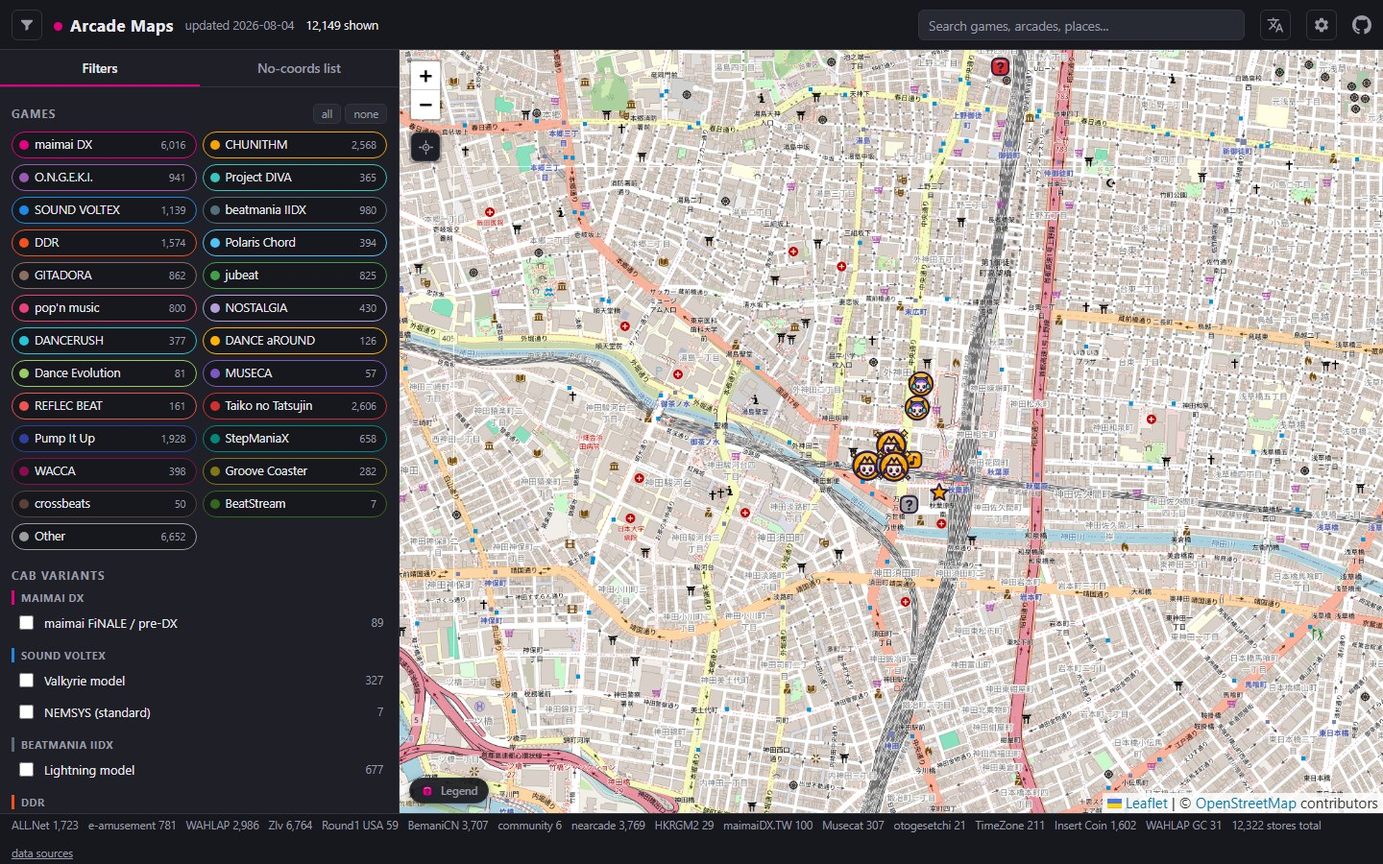
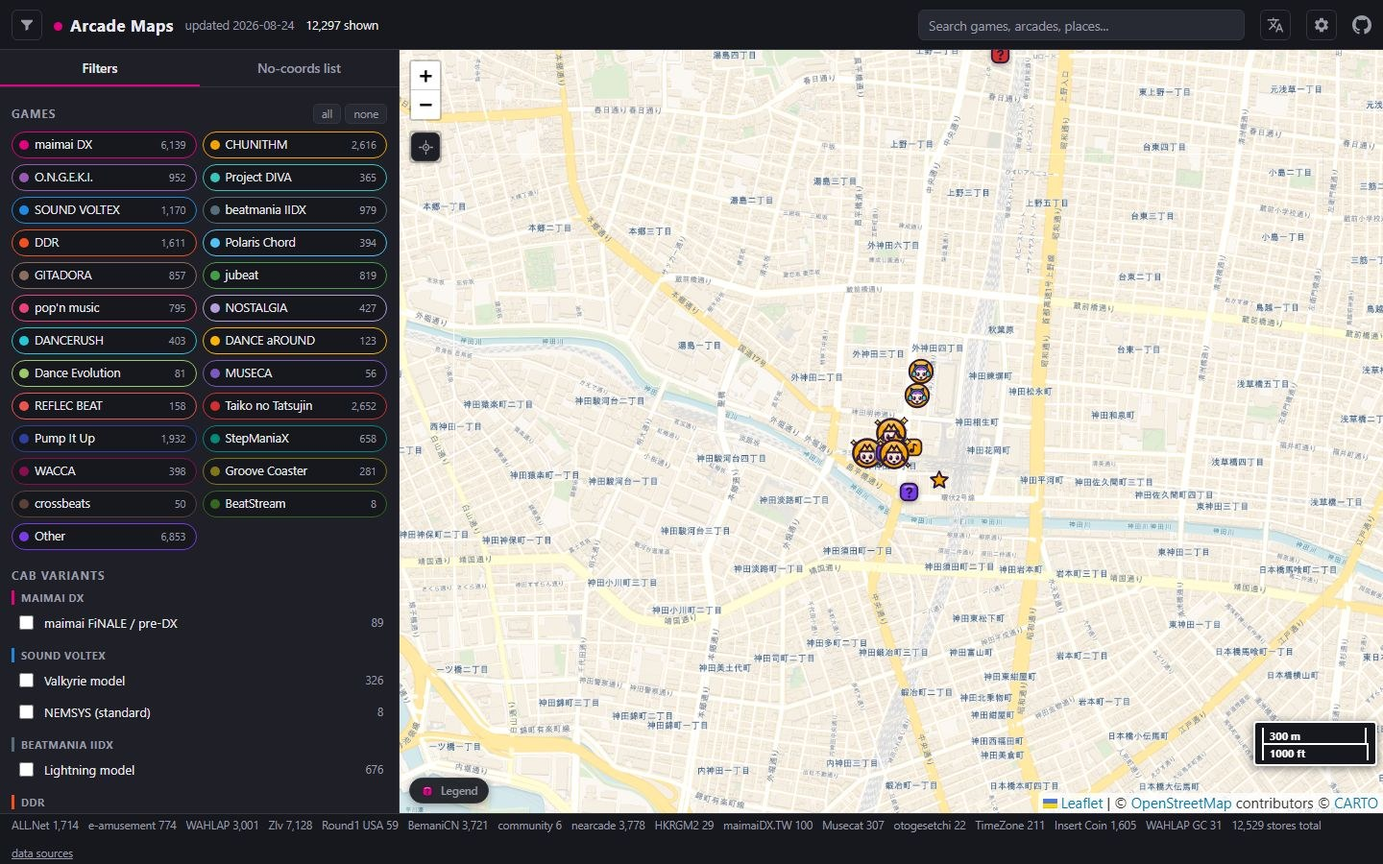
Make the scale bar visible and refresh README shots
Attribution was painting over the Leaflet scale at bottom-right. Stack that corner with flex so the km/mi chip sits above the credit line, with a high-contrast dark border. README screenshots and copy now show CARTO Voyager, violet Other, the scale bar, and the 2026-08-24 dataset.

diff --git a/style.css b/style.css
@@ -1481,23 +1481,49 @@ a.pl-hero-credit:hover { color: #fff; text-decoration: underline; }
 .leaflet-bottom.leaflet-left { pointer-events: none; }
 .leaflet-bottom.leaflet-left .leaflet-control { pointer-events: auto; }
 
-/* Scale bar: sit above the OSM/CARTO attribution, dark chip so it
-   reads on Voyager beige the same way the legend does. */
-.leaflet-control-scale {
-  margin-bottom: 8px;
-  background: none;
-  box-shadow: none;
-  border: none;
+/* Bottom-right: scale ABOVE the OSM/CARTO attribution.
+   Leaflet floats both into one corner; attribution uses margin:0 and
+   paints over the scale (same z-index, later in the DOM). Flex column
+   sizes the corner to its children and pins that stack to bottom:0,
+   so the scale is inside the map instead of clipped below it.
+   .leaflet-bottom .leaflet-control-scale {margin-bottom:5px} in
+   leaflet.css is (0,2,0); a single-class rule cannot override it. */
+.leaflet-bottom.leaflet-right {
+  display: flex;
+  flex-direction: column;
+  align-items: flex-end;
+}
+.leaflet-bottom.leaflet-right .leaflet-control {
+  float: none;
+  clear: none;
+  margin: 0;
+}
+.leaflet-bottom.leaflet-right .leaflet-control-scale {
+  margin: 0 6px 28px 0;
+  padding: 5px 7px 4px;
+  background: #17181d;
+  border: 2px solid #ffffff;
+  border-radius: 4px;
+  box-shadow: 0 2px 10px rgba(0, 0, 0, 0.55);
+  z-index: 1001;
 }
 .leaflet-control-scale-line {
-  background: rgba(23, 24, 29, 0.88);
-  color: #e8eaed;
-  border: 2px solid rgba(255, 255, 255, 0.45);
+  background: transparent;
+  color: #ffffff;
+  border: 2px solid #ffffff;
   border-top: none;
   font-size: 11px;
+  font-weight: 700;
   line-height: 1.2;
   padding: 2px 6px 1px;
   text-shadow: none;
+  box-sizing: border-box;
+  white-space: nowrap;
+}
+.leaflet-control-scale-line:not(:first-child) {
+  border-top: 2px solid #ffffff;
+  border-bottom: none;
+  margin-top: -2px;
 }
 
 @media (prefers-reduced-motion: reduce) {
@@ -1534,6 +1560,15 @@ a.pl-hero-credit:hover { color: #fff; text-decoration: underline; }
   .sd-row { padding: 12px 6px; }
   .sd-colors { grid-template-columns: 1fr 1fr; }
   .legend-body { width: min(230px, calc(100vw - 40px)); max-height: 44vh; }
+  /* Attribution wraps instead of covering the scale or the legend chip. */
+  .leaflet-bottom.leaflet-right .leaflet-control-scale {
+    margin-bottom: 36px;
+  }
+  .leaflet-container .leaflet-bottom.leaflet-right .leaflet-control-attribution {
+    max-width: min(240px, calc(100vw - 130px));
+    white-space: normal;
+    line-height: 1.35;
+  }
 }
 /* === end settings modal + legend chip === */
 

diff --git a/index.html b/index.html
@@ -34,7 +34,7 @@
 <link rel="stylesheet" href="vendor/leaflet.css?v=a7837102">
 <link rel="stylesheet" href="vendor/MarkerCluster.css?v=614dea0a">
 <link rel="stylesheet" href="vendor/MarkerCluster.Default.css?v=61258232">
-<link rel="stylesheet" href="style.css?v=62d1275c">
+<link rel="stylesheet" href="style.css?v=9a719056">
 </head>
 <body>
 <header id="topbar">
@@ -141,7 +141,7 @@ window.AM_CONFIG = {
 <script src="js/state.js?v=f779bf4c"></script>
 <!-- tier-marker cab totals + price/fx display helpers -->
 <script src="js/format.js?v=124368b7"></script>
-<script src="js/mapcore.js?v=b75d44bd"></script>
+<script src="js/mapcore.js?v=2849f8c9"></script>
 <!-- tier marker artwork, generated from assets/markers/*.svg by
      tools/build_tier_icons.py; markers.js reads it at parse time -->
 <script src="js/tier-icons.js?v=b970f432"></script>

diff --git a/js/mapcore.js b/js/mapcore.js
@@ -112,7 +112,7 @@ window.AM = window.AM || {};
     position: "bottomright",
     metric: true,
     imperial: true,
-    maxWidth: 140
+    maxWidth: 180
   }).addTo(map);
 
   var renderer = L.canvas({ padding: 0.5 });

diff --git a/tools/_capture_readme.py b/tools/_capture_readme.py
@@ -51,7 +51,62 @@ def wait_map(page, timeout_ms=90000):
         }""",
         timeout=timeout_ms,
     )
-    page.wait_for_timeout(1200)
+    page.wait_for_selector(".leaflet-control-scale-line", timeout=timeout_ms)
+    page.wait_for_selector("#game-chips .chip", state="attached", timeout=timeout_ms)
+    page.wait_for_timeout(1800)
+
+
+def open_filters(page):
+    page.evaluate(
+        """() => {
+          document.body.classList.remove('drawer-closed');
+          const t = document.getElementById('drawer-toggle');
+          if (t) t.setAttribute('aria-expanded', 'true');
+          if (window.AM && AM.map && AM.map.map) AM.map.map.invalidateSize();
+        }"""
+    )
+    page.wait_for_timeout(400)
+
+
+def close_filters(page):
+    page.evaluate(
+        """() => {
+          document.body.classList.add('drawer-closed');
+          const t = document.getElementById('drawer-toggle');
+          if (t) t.setAttribute('aria-expanded', 'false');
+          if (window.AM && AM.map && AM.map.map) AM.map.map.invalidateSize();
+        }"""
+    )
+    page.wait_for_timeout(400)
+
+
+def collapse_legend(page):
+    page.evaluate(
+        """() => {
+          const btn = document.getElementById('legend-toggle');
+          if (btn && btn.getAttribute('aria-expanded') === 'true') btn.click();
+        }"""
+    )
+    page.wait_for_timeout(300)
+
+
+def expand_legend(page):
+    page.wait_for_selector("#legend-toggle", timeout=20000)
+    page.evaluate(
+        """() => {
+          const btn = document.getElementById('legend-toggle');
+          if (btn && btn.getAttribute('aria-expanded') !== 'true') btn.click();
+        }"""
+    )
+    page.wait_for_function(
+        """() => {
+          const b = document.getElementById('legend-body');
+          const btn = document.getElementById('legend-toggle');
+          return b && !b.hidden && btn && btn.getAttribute('aria-expanded') === 'true';
+        }""",
+        timeout=10000,
+    )
+    page.wait_for_timeout(500)
 
 
 def open_aki(page):
@@ -73,7 +128,48 @@ def wait_place(page):
         }""",
         timeout=20000,
     )
+    try:
+        page.wait_for_selector("#place img", timeout=8000)
+    except Exception:
+        pass
     page.wait_for_timeout(800)
+
+
+def tile_info(page):
+    return page.evaluate(
+        """() => {
+          const srcs = [...document.querySelectorAll('.leaflet-tile')]
+            .map(i => i.src || '');
+          const carto = srcs.filter(s => /cartocdn|voyager/i.test(s)).length;
+          const osm = srcs.filter(s => /tile\\.openstreetmap\\.org/i.test(s)).length;
+          const attr = (document.querySelector('.leaflet-control-attribution')
+            || {}).innerText || '';
+          const scale = document.querySelector('.leaflet-control-scale');
+          const sr = scale ? scale.getBoundingClientRect() : null;
+          const legend = document.getElementById('legend-toggle');
+          const body = document.getElementById('legend-body');
+          const chips = document.querySelectorAll('#game-chips .chip').length;
+          const other = [...document.querySelectorAll('#game-chips .chip')]
+            .find(c => (c.dataset.g || '') === 'other');
+          return {
+            nTiles: srcs.length,
+            carto,
+            osm,
+            attr,
+            scale: !!scale,
+            scaleText: scale ? (scale.innerText || '').replace(/\\s+/g, ' ').trim() : '',
+            scaleBox: sr ? {x: sr.x, y: sr.y, w: sr.width, h: sr.height} : null,
+            legendOpen: !!(legend && legend.getAttribute('aria-expanded') === 'true'),
+            legendBody: !!(body && !body.hidden),
+            chips,
+            otherColor: other ? getComputedStyle(other).getPropertyValue('--chip')
+              || getComputedStyle(other.querySelector('.dot') || other).backgroundColor
+              : null,
+            shown: (document.getElementById('meta-count') || {}).innerText || '',
+            sample: srcs.slice(0, 3),
+          };
+        }"""
+    )
 
 
 def shot(page, name):
@@ -83,7 +179,8 @@ def shot(page, name):
         from PIL import Image
         im = Image.open(path).convert("RGB")
         im.save(path, "JPEG", quality=88, optimize=True, progressive=True)
-    print("wrote", path, path.stat().st_size)
+    info = tile_info(page)
+    print("wrote", path, path.stat().st_size, info)
 
 
 def main():
@@ -102,14 +199,24 @@ def main():
         page.evaluate("() => { localStorage.clear(); }")
         page.reload(wait_until="domcontentloaded")
         wait_map(page)
+        open_filters(page)
+        wait_map(page)
         shot(page, "screenshot.png")
 
         page.goto(base + "#" + AKI_ZOOM, wait_until="domcontentloaded")
         wait_map(page)
+        open_filters(page)
         shot(page, "readme-akihabara.jpg")
+
+        page.goto(base + "#" + TOKYO, wait_until="domcontentloaded")
+        wait_map(page)
+        open_filters(page)
+        expand_legend(page)
+        shot(page, "readme-legend.jpg")
 
         page.goto(base + "#" + AKI_HASH, wait_until="domcontentloaded")
         wait_map(page)
+        collapse_legend(page)
         open_aki(page)
         wait_place(page)
         shot(page, "readme-place.jpg")
@@ -140,17 +247,13 @@ def main():
         mp.evaluate("() => localStorage.clear()")
         mp.reload(wait_until="domcontentloaded")
         wait_map(mp)
-        # close the filter drawer so the map fills the phone
-        toggle = mp.locator("#drawer-toggle")
-        if toggle.count():
-            expanded = toggle.get_attribute("aria-expanded")
-            if expanded == "true":
-                toggle.click()
-                mp.wait_for_timeout(400)
+        close_filters(mp)
         mp.goto(base + "#" + AKI_HASH, wait_until="domcontentloaded")
         wait_map(mp)
+        close_filters(mp)
         open_aki(mp)
         wait_place(mp)
+        close_filters(mp)
         shot(mp, "readme-mobile-place.jpg")
         browser.close()
     httpd.shutdown()

diff --git a/README.md b/README.md
@@ -7,13 +7,13 @@
 
 Worldwide rhythm game arcade locations on one interactive map. Arcade Maps tracks where you can play CHUNITHM, maimai DX, ONGEKI, SOUND VOLTEX, beatmania IIDX, DanceDanceRevolution, Polaris Chord, GITADORA, jubeat, pop'n music, Nostalgia, DANCERUSH STARDOM, DANCE aROUND, Project DIVA Arcade, Pump It Up, StepManiaX, WACCA, Groove Coaster, crossbeats, BeatStream, and community-tracked games including Taiko no Tatsujin. The data is rebuilt automatically from official operator sources (SEGA ALL.Net, Konami e-amusement, WAHLAP) plus the Zenius-I-Vanisher and BemaniCN community databases, committed to this repo on a weekly schedule, and served as a fast static Leaflet map on GitHub Pages.
 
-**Current dataset (last rebuild 2026-08-04):** 12,322 arcades across 69 countries (191 cross-source duplicates were unified by romanization-aware matching, so a Japanese official listing and its romaji community twin now share one pin; a further 124 where two sources geocoded the same venue more than 120 m apart - ALL.Net's fullwidth "アミューズメントパークＭＧ西条" and e-amusement's "アミューズメントパークMG西条店" were one store drawn as two icons; and 22 in Hong Kong and Macau, where the official English listing and BemaniCN's Chinese one share no characters at all and are bridged by the street number, the operator's Latin branding, or the Cantonese reading of the Chinese name - 碧富遊戲機 on 和宜合道 is PIK FU GAME CENTRE on Wo Yi Hop Road). Sources include SEGA ALL.Net, Konami eagate, WAHLAP China, BemaniCN, Round1 USA, and Zenius-I-Vanisher (65 country queries, plus a United States per-series crawl).
+**Current dataset (last rebuild 2026-08-24):** 12,529 arcades across 69 countries (191 cross-source duplicates were unified by romanization-aware matching, so a Japanese official listing and its romaji community twin now share one pin; a further 124 where two sources geocoded the same venue more than 120 m apart - ALL.Net's fullwidth "アミューズメントパークＭＧ西条" and e-amusement's "アミューズメントパークMG西条店" were one store drawn as two icons; and 22 in Hong Kong and Macau, where the official English listing and BemaniCN's Chinese one share no characters at all and are bridged by the street number, the operator's Latin branding, or the Cantonese reading of the Chinese name - 碧富遊戲機 on 和宜合道 is PIK FU GAME CENTRE on Wo Yi Hop Road). Sources include SEGA ALL.Net, Konami eagate, WAHLAP China, BemaniCN, Round1 USA, and Zenius-I-Vanisher (65 country queries, plus a United States per-series crawl).
 
 ## Live map
 
 **https://jonathanliu1401.github.io/Arcade-Maps/**
 
-World view, 12,149 plottable pins (the rest are address-only and live in the no-coords list):
+World view on the default CARTO Voyager basemap (OpenStreetMap tiles are the automatic fallback if CARTO fails, and a Settings > Display toggle). 12,297 plottable pins of 12,529 stores (the rest are address-only and live in the no-coords list). A metric/imperial scale bar sits above the attribution. Other / unknown-count markers are violet with a halo, not grey, so they stay visible on Voyager beige. Legend shapes tint to the first selected game:
 
 ![Arcade Maps world view with game filters](docs/screenshot.png)
 
@@ -31,27 +31,31 @@ The same store on a phone (bottom sheet) and with the UI in Japanese:
 
 ![Japanese UI for the same store](docs/readme-ja.jpg)
 
+Tokyo with the on-map legend expanded. Marker shapes follow the first selected game's colour; the scale bar is in the corner:
+
+![Expanded marker legend and scale bar over Tokyo](docs/readme-legend.jpg)
+
 ## Features
 
 - One map, every game: per-game layer toggles with marker clustering, so you can show only the cabs you care about
 - One search box for three things: type a game (`iidx`, `舞萌`) to switch that filter on, a store name to fly to it, or a city (`Osaka`, `大阪`) to zoom to its arcades. Japanese, Chinese and romaji all match
 - Store detail panel: click any marker and a full-height panel (a drag-to-expand bottom sheet on phones) opens with the store's games and per-game cab counts, address, source badges, notes, and buttons for directions, share-this-store link, and nearby
 - Nearby search: the locate button (or any store's Nearby button) ranks the closest arcades by great-circle distance with a compass bearing, and honours whatever game, cab and source filters are active
-- Settings you keep: turn individual data sources off, flatten the marker size ramp so every icon draws at 25px (the tier shapes stay), pick CARTO Voyager or OpenStreetMap tiles, and disable location features entirely. Choices persist per device in localStorage and never travel in a shared link. The on-map legend is a click-to-expand chip, not a setting
+- Settings you keep: turn individual data sources off, flatten the marker size ramp so every icon draws at 25px (the tier shapes stay), pick CARTO Voyager or OpenStreetMap tiles (Voyager is the default; OSM is also the automatic fallback), and disable location features entirely. Choices persist per device in localStorage and never travel in a shared link. The on-map legend is a click-to-expand chip (shapes tint to the first selected game), not a setting. A metric/imperial scale bar sits on the map
 - Tiered kawaii markers: each store draws one of six original chibi-style icons by total cabinet count (note, button pad, star, cat-ear chibi at 20-49 cabs, crowned idol at 50+, and a "?" pad when no source publishes a count). Each icon is tinted by the store's game colour, tiers only use counts a source actually reported, and at the deepest zoom a stacked bundle fans out (spiderfies) when you click it, so overlapping stores stay clickable
-- Venue photos in the detail panel: 5,054 of 12,322 arcades (41.0%) now carry a real photo of that venue, shown as a slideshow when there is more than one and credited to the community member who took it. When a store has none, the panel falls back to a CC-licensed photo of one of its cabinets from Wikimedia Commons (with the required author/license credit rendered on the image), then to a game-colour banner. Coverage is uneven by design of the sources, not by choice: about two thirds in China (mirrored BemaniCN thumbnails), about a third in the United Kingdom and the United States, and only 3.3% in Japan. See "Photo coverage" below for why Japan is the outlier
+- Venue photos in the detail panel: 4,995 of 12,529 arcades (39.9%) now carry a real photo of that venue, shown as a slideshow when there is more than one and credited to the community member who took it. When a store has none, the panel falls back to a CC-licensed photo of one of its cabinets from Wikimedia Commons (with the required author/license credit rendered on the image), then to a game-colour banner. Coverage is uneven by design of the sources, not by choice: about two thirds in China (mirrored BemaniCN thumbnails), about a third in the United Kingdom and the United States, and only 3.3% in Japan. See "Photo coverage" below for why Japan is the outlier
 - Resizable sidebar: drag the panel edge to any width (double-click resets), remembered per device
 - Shareable URLs: the hash carries the map view plus selected games and cabs, and the Share button adds the exact store, so a link reopens on what you were looking at
 - Official-source data: SEGA ALL.Net, Konami eagate facility search, and WAHLAP (China) are scraped directly, not copied from other maps
-- Community coverage where official sources stop: Zenius-I-Vanisher fills in worldwide arcades (65 countries queried at the last pull), Taiko, offline cabs for retired games, and the extra series a US per-series crawl reaches. Six of those now have layers of their own rather than sitting in the grey "Other" chip: Pump It Up (1,958 venues), StepManiaX (659), WACCA (403), Groove Coaster (316), crossbeats (50) and BeatStream (8). In The Groove, Guitar Hero Arcade, Beat Saber and StepMania still map to Other
-- Machine counts where sources report them, each labelled with the evidence behind it: `game_counts` covers 4,470 arcades (33.0%; BemaniCN raw coverage is ~94% of its shops), and a parallel `count_evidence` records per game slug whether the number is a published quantity (`bemanicn_qty`), a human writing "12 machines" on the listing (`ziv_comment`), or simply the number of machine rows on a ZIv page (`ziv_listed`, a FLOOR rather than a total). A `ziv_listed` count of 1 renders nothing at all: ZIv lists one row per title regardless of how many cabinets stand behind it, so "x1" would be a number no source published. Cabinet-variant pills follow the same rule one level down through `cab_models`, and only take a quantity when the listing comment NAMES the cabinet model
-- Measured prices, not guessed ones: `scrapers/prices.py` derives a per-country per-game figure from the real quoted prices in the listings and tiers it by how much evidence there is - measured (5 or more quotes), sparse (2 to 4, shown with a caveat), unknown (renders nothing rather than a fabrication). The current table holds 116 measured cells, 113 sparse and 87 unknown across 29 countries. This replaced a hand-written country table that asserted "HKD 8-15/play typical" for Hong Kong, where every listing in the dataset quotes HK$6.00. Weekly USD FX rates come from Frankfurter (ECB) with open.er-api.com gap-fill, so the site can show a local price and a converted estimate
-- Community enrichment: `data/enrichment.json` covers 9,505 of the 12,322 arcades - opening hours (5,972), venue info text (4,113), a website (4,044), free-text machine prices per game (3,647), and venue photos (5,054). The text fields are all ZIv; the photos that reach the shipped file come from ZIv and BemaniCN only. `scrapers/enrich.py` also parses the other BemaniCN fields (transit prose, venue coin/token price, per-title coins per play, game versions, favourite counts), but photos are the only BemaniCN data that has landed in the shipped file so far
+- Community coverage where official sources stop: Zenius-I-Vanisher fills in worldwide arcades (65 countries queried at the last pull), Taiko, offline cabs for retired games, and the extra series a US per-series crawl reaches. Six of those now have layers of their own rather than sitting in the violet "Other" chip: Pump It Up (1,932 venues), StepManiaX (658), WACCA (398), Groove Coaster (308), crossbeats (50) and BeatStream (8). In The Groove, Guitar Hero Arcade, Beat Saber and StepMania still map to Other
+- Machine counts where sources report them, each labelled with the evidence behind it: `game_counts` covers 6,211 arcades (49.6%; BemaniCN raw coverage is ~93% of its shops), and a parallel `count_evidence` records per game slug whether the number is a published quantity (`bemanicn_qty`), a human writing "12 machines" on the listing (`ziv_comment`), or simply the number of machine rows on a ZIv page (`ziv_listed`, a FLOOR rather than a total). A `ziv_listed` count of 1 renders nothing at all: ZIv lists one row per title regardless of how many cabinets stand behind it, so "x1" would be a number no source published. Cabinet-variant pills follow the same rule one level down through `cab_models`, and only take a quantity when the listing comment NAMES the cabinet model
+- Measured prices, not guessed ones: `scrapers/prices.py` derives a per-country per-game figure from the real quoted prices in the listings and tiers it by how much evidence there is - measured (5 or more quotes), sparse (2 to 4, shown with a caveat), unknown (renders nothing rather than a fabrication). The current table holds 113 measured cells, 115 sparse and 86 unknown across 29 countries. This replaced a hand-written country table that asserted "HKD 8-15/play typical" for Hong Kong, where every listing in the dataset quotes HK$6.00. Weekly USD FX rates come from Frankfurter (ECB) with open.er-api.com gap-fill, so the site can show a local price and a converted estimate
+- Community enrichment: `data/enrichment.json` covers 9,832 of the 12,529 arcades - opening hours (6,243), venue info text (4,444), a website (4,038), free-text machine prices per game (3,956), and venue photos (4,995). The text fields are all ZIv; the photos that reach the shipped file come from ZIv and BemaniCN only. `scrapers/enrich.py` also parses the other BemaniCN fields (transit prose, venue coin/token price, per-title coins per play, game versions, favourite counts), but photos are the only BemaniCN data that has landed in the shipped file so far
 - Directions: every store links out to Google Maps, by coordinate when it has one and by name + address search when it does not
 - Street-level China placement, still labelled approximate: coordinate-less mainland China addresses are geocoded through Baidu's keyless public endpoint and the answers are committed to `data/china_geocode.json`, which moved China from 2,090 distinct coordinates to 5,305. Every one of those pins still carries `approx: true`, and the reason is worth reading rather than skipping. See the China accuracy disclosure below
 - Automated freshness: a GitHub Action re-scrapes weekly and commits the diff, so the badge above tells you exactly how stale the data is
 - Google My Maps export: numbered KMZ layers in `mymaps/` let you rebuild the classic My Maps experience in your own Google account (see [docs/MYMAPS.md](docs/MYMAPS.md))
-- No backend, no API keys: static HTML + vendored Leaflet 1.9.4 + Leaflet.markercluster 1.5.3 on GitHub Pages, CARTO Voyager raster tiles with OpenStreetMap as automatic fallback. The one optional exception is the Google Places photo path, which stays a complete no-op unless somebody adds their own key ([docs/GOOGLE_PHOTOS.md](docs/GOOGLE_PHOTOS.md))
+- No backend, no API keys: static HTML + vendored Leaflet 1.9.4 + Leaflet.markercluster 1.5.3 on GitHub Pages, CARTO Voyager raster tiles by default with OpenStreetMap as automatic fallback if CARTO fails (and as a Settings > Display choice). The one optional exception is the Google Places photo path, which stays a complete no-op unless somebody adds their own key ([docs/GOOGLE_PHOTOS.md](docs/GOOGLE_PHOTOS.md))
 
 ## China accuracy disclosure
 
@@ -86,11 +90,11 @@ Refreshing the cache is opt-in and never part of a normal build, because it is h
 
 ## Photo coverage
 
-**5,054 of 12,322 arcades (41.0%) have a real photo of the venue**, from two sources in the shipped file: BemaniCN thumbnails mirrored into `assets/venues/` (3,095 arcades) and ZIv community uploads (1,959). A third source, a small hand-reviewed set from Wikimedia Commons, is harvested into `data_raw/chain_photos.json` (48 image records) but **currently reaches no arcade on the map**: `photos.index_by_source_url()` keys the join on `ziv:<id>` / `bemanicn:<id>` derived from `page_url`, and a `commons.wikimedia.org` page URL produces no key, so `enrich.py` drops every Commons-only photo. Shipped enrichment contains zero of them. The BemaniCN images are mirrored rather than linked because that site serves them from signed URLs that expire within the hour, so a stored link would be dead by the time anybody clicked it. Licence position, per-file attribution and the takedown path are in [`assets/venues/ATTRIBUTION.md`](assets/venues/ATTRIBUTION.md). `scrapers/photo_quality.py` ranks each venue's photos from their file headers (dimensions, aspect, bytes per pixel, and the upload timestamp in the filename) so the best one takes the hero slot instead of whichever came back first.
+**4,995 of 12,529 arcades (39.9%) have a real photo of the venue**, from two sources in the shipped file: BemaniCN thumbnails mirrored into `assets/venues/` (3,065 arcades) and ZIv community uploads (1,930). A third source, a small hand-reviewed set from Wikimedia Commons, is harvested into `data_raw/chain_photos.json` (48 image records) but **currently reaches no arcade on the map**: `photos.index_by_source_url()` keys the join on `ziv:<id>` / `bemanicn:<id>` derived from `page_url`, and a `commons.wikimedia.org` page URL produces no key, so `enrich.py` drops every Commons-only photo. Shipped enrichment contains zero of them. The BemaniCN images are mirrored rather than linked because that site serves them from signed URLs that expire within the hour, so a stored link would be dead by the time anybody clicked it. Licence position, per-file attribution and the takedown path are in [`assets/venues/ATTRIBUTION.md`](assets/venues/ATTRIBUTION.md). `scrapers/photo_quality.py` ranks each venue's photos from their file headers (dimensions, aspect, bytes per pixel, and the upload timestamp in the filename) so the best one takes the hero slot instead of whichever came back first.
 
 Coverage is very uneven, and two of the gaps are worth stating plainly:
 
-- **Japan is 3.3%** (46 of 1,396), the worst of any major market. Japanese chain store pages scrape at 95 to 100 percent technically, and are unusable anyway: Taito and namco explicitly forbid copying, transmitting or deep-linking their images, which is exactly what embedding them on a public map would be. Those chains are therefore link-outs to the official store page, and a link-out counts as zero coverage.
+- **Japan is 3.3%** (46 of 1,375), the worst of any major market. Japanese chain store pages scrape at 95 to 100 percent technically, and are unusable anyway: Taito and namco explicitly forbid copying, transmitting or deep-linking their images, which is exactly what embedding them on a public map would be. Those chains are therefore link-outs to the official store page, and a link-out counts as zero coverage.
 - **Street-level imagery was measured and rejected.** KartaView, Mapillary, Wikimedia Commons geosearch, OSM `image=*` tags and Wikidata P18 were probed against a fixed-seed sample of 210 arcades. Only 5.2% of arcades have any street-level photo with a camera even pointed at them, and of the best-case frames actually downloaded and looked at, 0 of 7 showed an arcade: all were windshield dashcam shots of asphalt, because dashcams photograph roads rather than shops. The full measurement lives in `data_raw/streetlevel_imagery_probe.json` so nobody has to redo it.
 
 **Google Places photos are an optional fourth source**, off by default and a clean no-op without an API key. Place IDs are cached (Google's terms exempt them explicitly); photos are fetched in the browser when a panel opens and are never stored anywhere, because the terms forbid caching those. Setup, costs, and how a match is verified before it is trusted: [docs/GOOGLE_PHOTOS.md](docs/GOOGLE_PHOTOS.md).
@@ -183,8 +187,12 @@ Arcade-Maps/
 |  |- stamp_assets.py    content-hash ?v= stamps on the css/js in index.html
 |- mymaps/               numbered KMZ layers for My Maps import (+ README)
 |- docs/
-|  |- screenshot.png     README world-view capture
-|  |- readme-*.jpg       README UI captures (Akihabara, place panel, mobile, ja)
+|  |- screenshot.png     README world-view capture (CARTO Voyager)
+|  |- readme-akihabara.jpg  Akihabara street zoom, chibi markers
+|  |- readme-place.jpg   GiGO Akihabara 3 store panel
+|  |- readme-mobile-place.jpg  phone bottom sheet
+|  |- readme-ja.jpg      Japanese UI for the same store
+|  |- readme-legend.jpg  expanded legend + scale bar over Tokyo
 |  |- ARCHITECTURE.md    pipeline, data schema, design decisions
 |  |- DATA_SOURCES.md    per-source URLs, parse markers, caveats
 |  |- GOOGLE_PHOTOS.md   optional Google Places photos: setup, cost, match rules
@@ -208,7 +216,7 @@ Prior art studied while designing this project (protocols and recipes, no code c
 - [xiangyuecn/AreaCity-JsSpider-StatsGov](https://github.com/xiangyuecn/AreaCity-JsSpider-StatsGov) (MIT) - China province / city / district centroids underlying `data/china_areas.json`
 - [rime/rime-cantonese](https://github.com/rime/rime-cantonese) (CC BY 4.0, 粵語計算語言學基礎建設組 / CanCLID) - Cantonese readings underlying `data/hk_romanize.json`, which is how a Hong Kong venue's English name is matched to its Chinese one
 - [Leaflet](https://leafletjs.com/) and [Leaflet.markercluster](https://github.com/Leaflet/Leaflet.markercluster) - the map engine
-- [OpenStreetMap](https://www.openstreetmap.org/copyright) contributors and [CARTO](https://carto.com/attributions) - base map tiles (CARTO Voyager, with OpenStreetMap tiles as fallback)
+- [OpenStreetMap](https://www.openstreetmap.org/copyright) contributors and [CARTO](https://carto.com/attributions) - base map tiles (CARTO Voyager default, with OpenStreetMap tiles as automatic fallback)
 - [Frankfurter](https://www.frankfurter.app/) / ECB reference rates - weekly FX bake
 - The [Zenius-I-Vanisher](https://zenius-i-vanisher.com/) community - decades of worldwide arcade tracking, including the venue photos its members uploaded
 - The [BemaniCN](https://map.bemanicn.com/) community - China venue listings, machine counts, and the venue thumbnails mirrored under `assets/venues/cn/`
